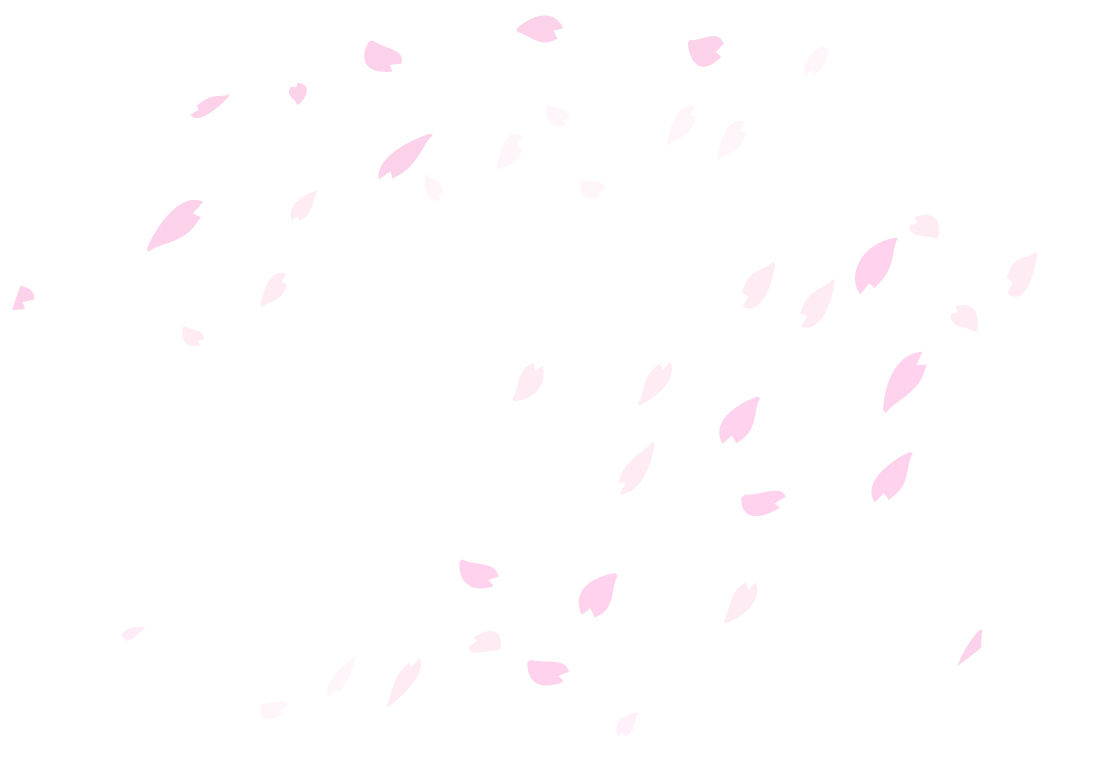
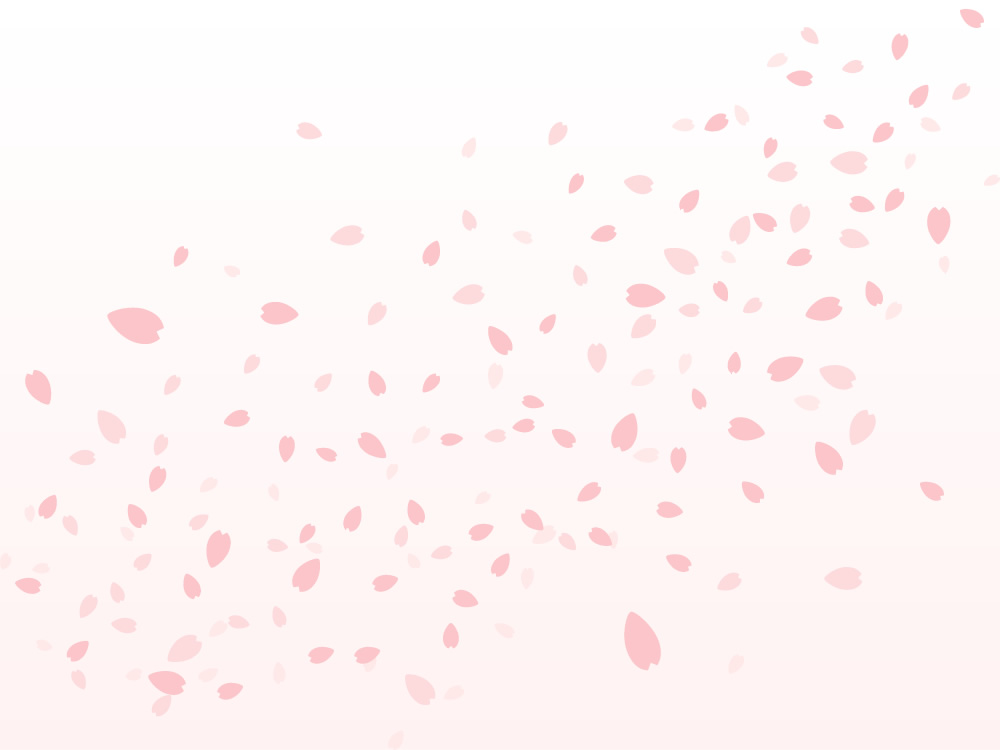
トップページのview変更

diff --git a/app/assets/stylesheets/main.css b/app/assets/stylesheets/main.css
@@ -148,12 +148,6 @@ button {
     justify-content: center;
 }
 
-.box {
-    position: relative;
-
-}
-.box p {
-    position: absolute;
-    top: 200px;
-    left: 150px;
+body {
+    background-image: url(sakura_image.png);
 }
